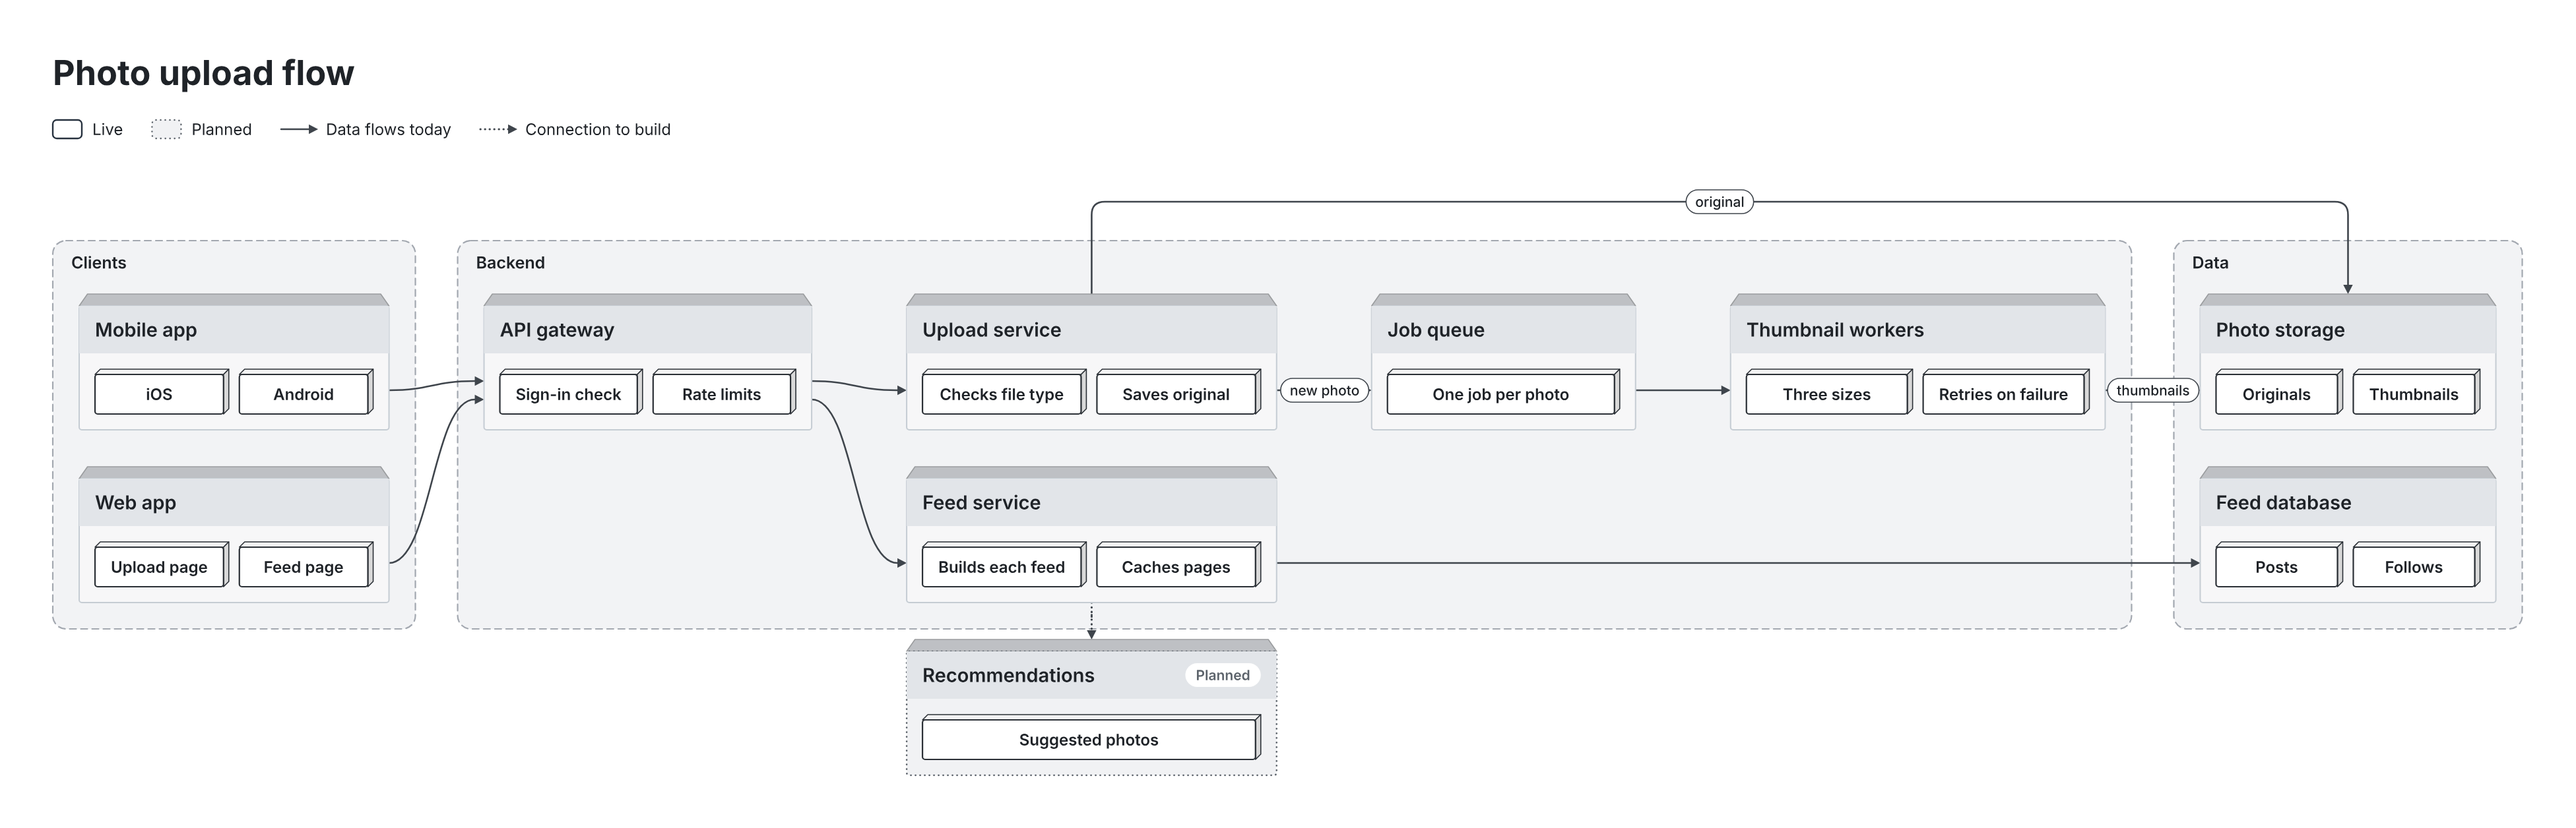
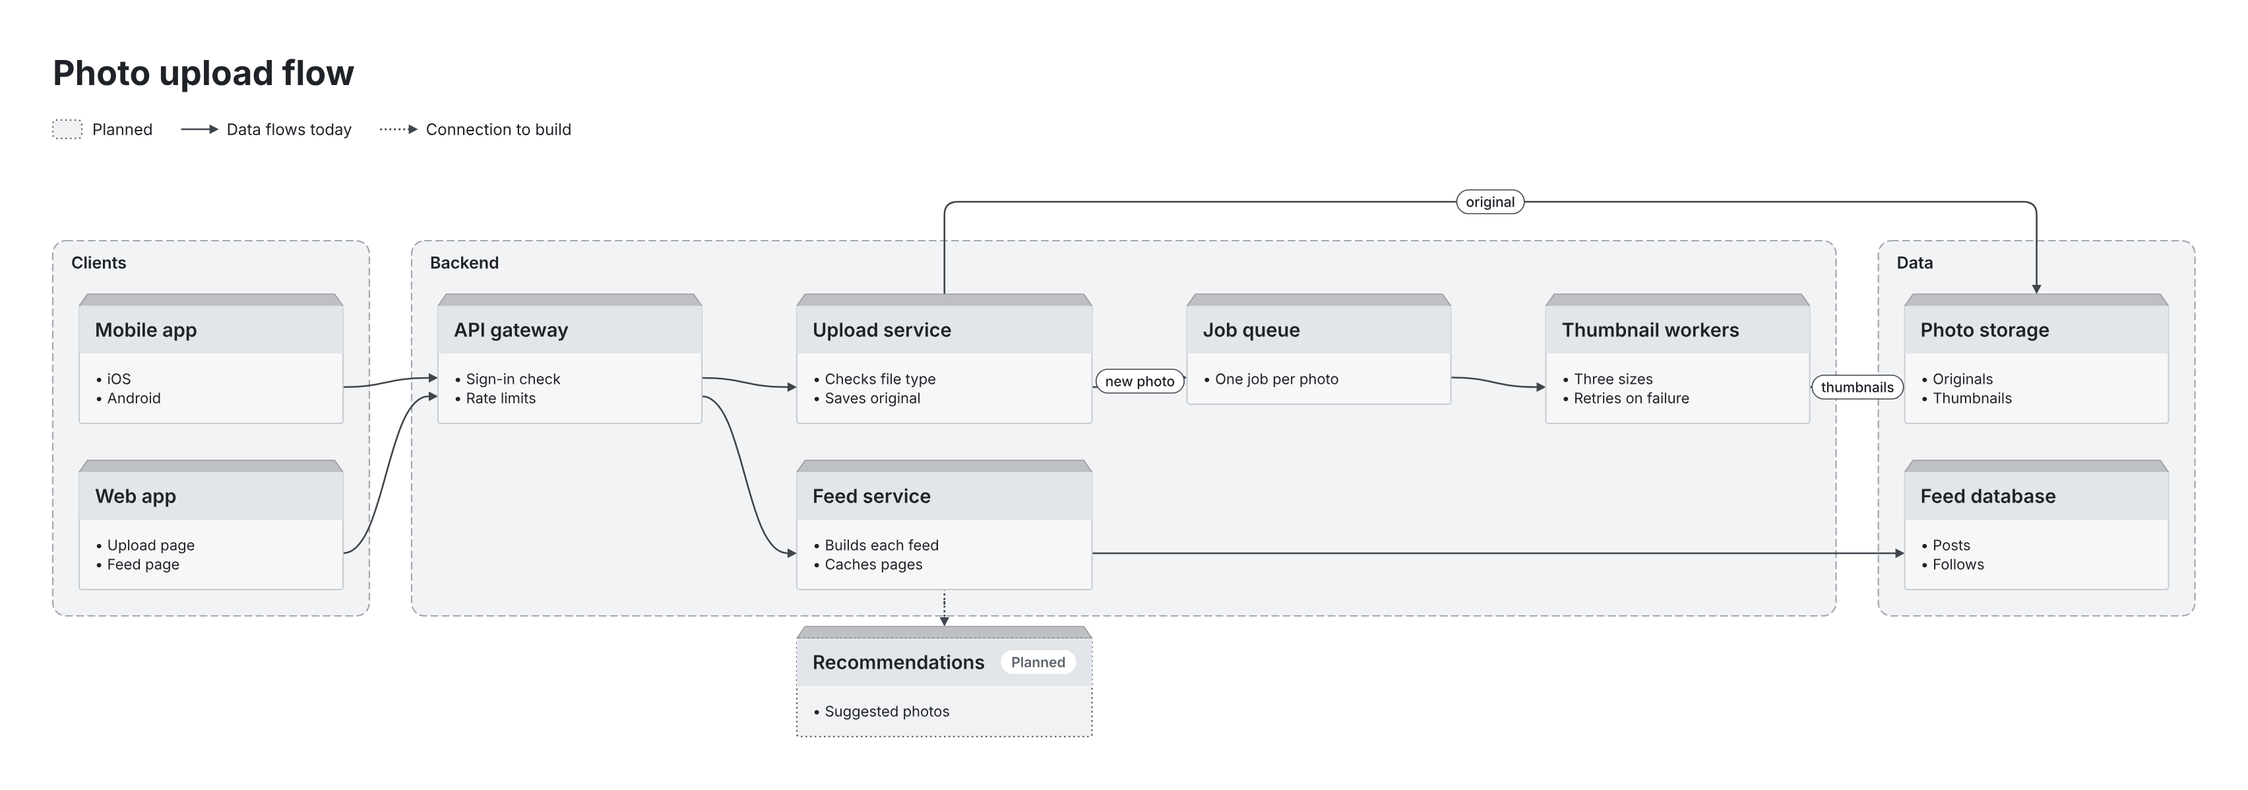
Comparison: open-diagram boxes hold bulleted lists
Each panel lists its items as bullets under the title (a text section),
the same items every other tool shows in its boxes. Made in 0.59 s.

diff --git a/docs/compare/README.md b/docs/compare/README.md
@@ -12,4 +12,4 @@ The pictures in [../comparison.md](../comparison.md) come from these files. Each
 
 Chrome saved each SVG as a PNG at twice its size.
 
-Times on the comparison page: one warm-up run, then the median of five runs, from starting the command to the finished SVG, on one Mac (November 23, 2026). open-diagram 0.60 s, Mermaid 0.76 s, archify 0.28 s, D2 0.017 s. Excalidraw has no command: its 0.020 s is the conversion and export inside Chrome, after the page and libraries loaded.
+Times on the comparison page: one warm-up run, then the median of five runs, from starting the command to the finished SVG, on one Mac (November 23, 2026). open-diagram 0.59 s, Mermaid 0.76 s, archify 0.28 s, D2 0.017 s. Excalidraw has no command: its 0.020 s is the conversion and export inside Chrome, after the page and libraries loaded.

diff --git a/docs/comparison.md b/docs/comparison.md
@@ -6,7 +6,7 @@ The same photo upload flow, drawn by each tool from its own format with default 
 
 ![The photo upload flow drawn by open-diagram](images/compare/open-diagram.png)
 
-Made in 0.60 s. 0 layout problems. [Source](https://github.com/lukendeasy/open-diagram/blob/main/docs/compare/photo-upload.json)
+Made in 0.59 s. 0 layout problems. [Source](https://github.com/lukendeasy/open-diagram/blob/main/docs/compare/photo-upload.json)
 
 ## Mermaid
 
